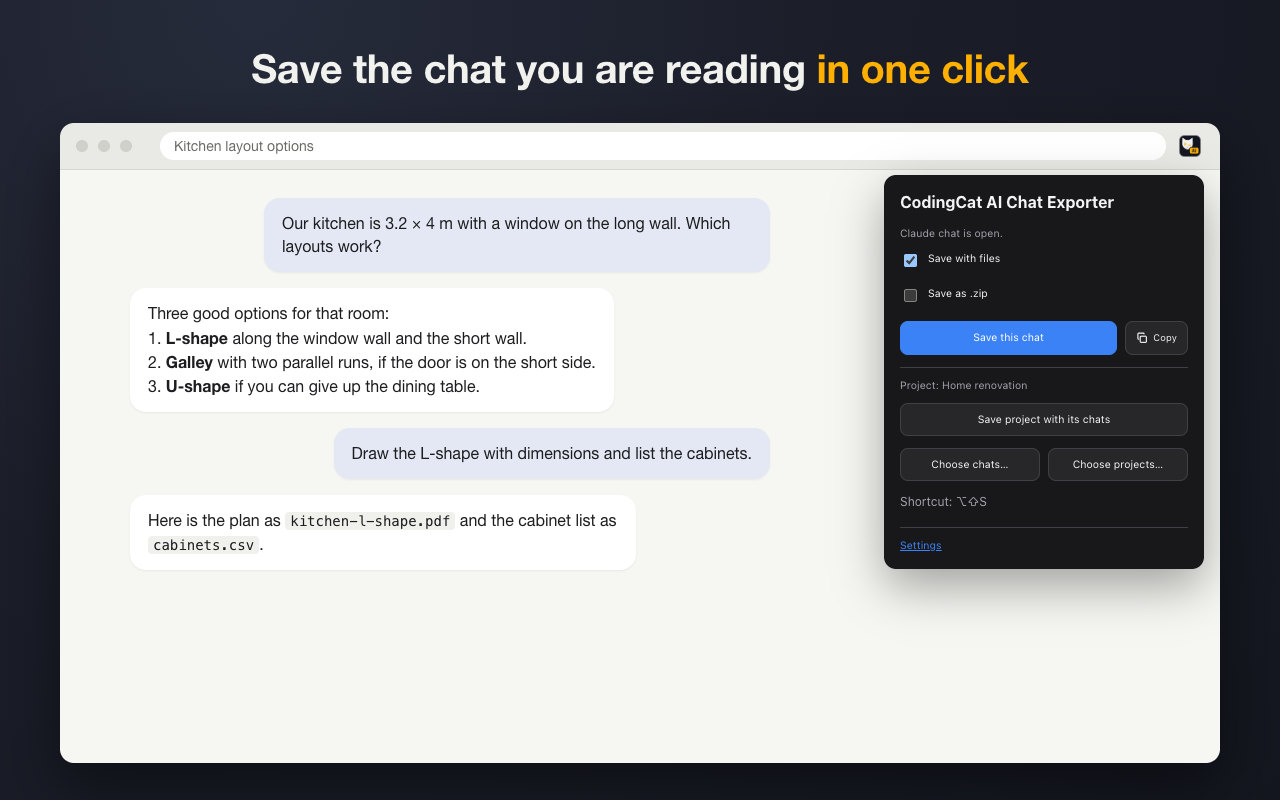
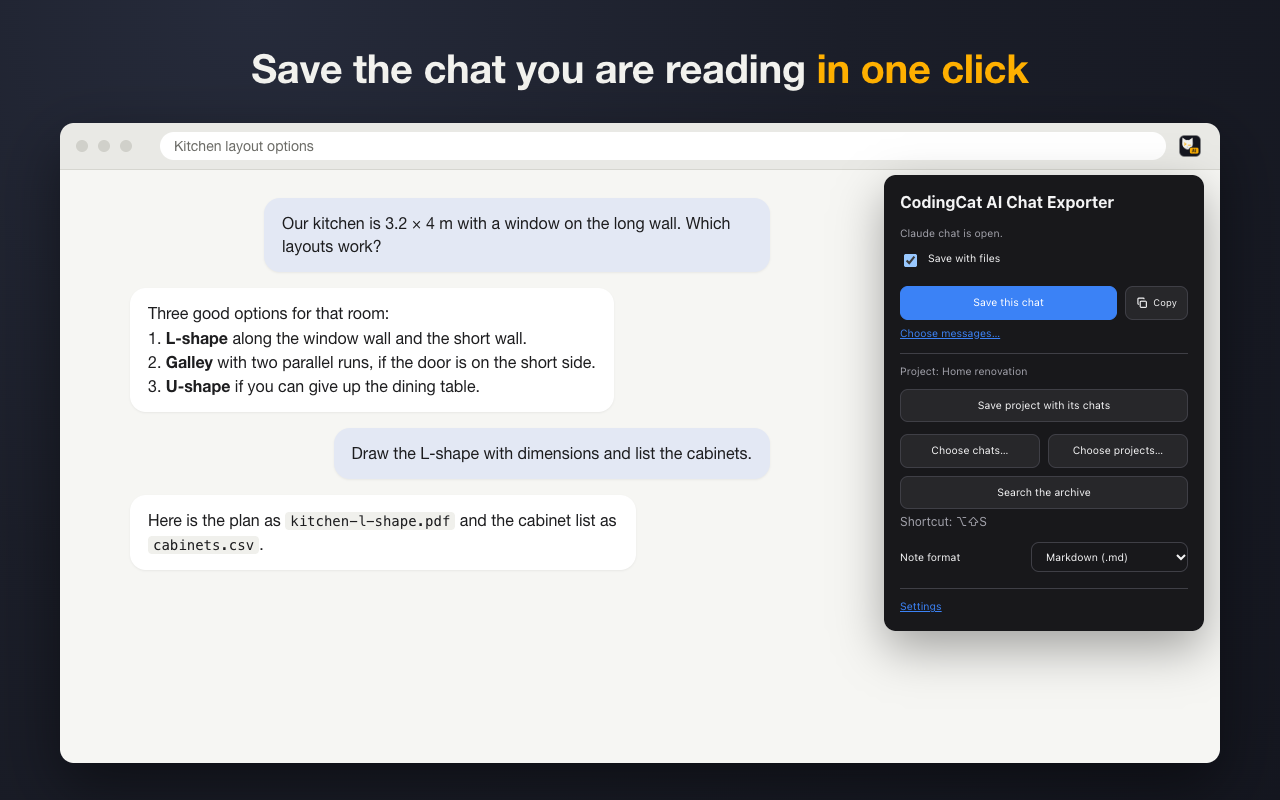
chore: new store screenshots for 0.5 (#52)
* fix: the search viewer marks hits legibly and scrolls only itself

The marks in the viewer kept the note's light text on a light yellow, hard
to read in a dark theme; they have dark text now. Opening a hit scrolled
the whole search page with scrollIntoView, so the query box went out of
view; the viewer now scrolls only its own document.

* chore: new store screenshots for 0.5

Five screenshots instead of four, made by scripts/store-images.mjs from the
real extension on a stand with made-up chats: the popup, the export page
showing only the chats not saved yet with the new filters, the archive
search, the bulk export's progress, and a saved note. The made-up chats
now have their own questions and replies and dates, so the search finds
something; the export goes into a folder, which the search then reads.

---------

Changed region(s): [[0.6875, 0.3438, 0.9688, 0.8438]]

diff --git a/store/README.md b/store/README.md
@@ -8,20 +8,20 @@ Upload `ai-chat-exporter-<version>.zip` from the [release](https://github.com/ni
 
 ## Store listing tab
 
-| Field                  | Value                                                                                                                                       |
-| ---------------------- | ------------------------------------------------------------------------------------------------------------------------------------------- |
-| Name                   | From the package: "CodingCat AI Chat Exporter" (both languages)                                                                             |
-| Summary                | From the package: `extDescription` in `scripts/locales.py` (English, Russian) and `LISTING` there for the other languages                   |
-| Description            | `description.<language>.txt`: en, ru, de, es, fr, pt_BR, ja, zh_CN                                                                          |
-| Category               | Productivity › Tools (a category is chosen inside a group; Workflow & Planning would be the second choice)                                  |
-| Language               | English first; then add Russian, German, Spanish, French, Portuguese (Brazil), Japanese and Chinese (Simplified), each with its description |
-| Store icon             | `store-icon-128.png`: the package's `icons/icon-128.png`, 96×96 artwork in 16 px of padding with a faint glow                               |
-| Screenshots (1280×800) | `screenshot-1-popup.png`, `screenshot-2-choose.png`, `screenshot-3-progress.png`, `screenshot-4-note.png`, in this order                    |
-| Small promo tile       | `promo-small-440x280.png` (required)                                                                                                        |
-| Marquee promo tile     | `promo-marquee-1400x560.png` (optional: shown only if the store features the extension)                                                     |
-| Homepage URL           | https://github.com/nikolaylosev/ai-chat-exporter                                                                                            |
-| Support URL            | https://github.com/nikolaylosev/ai-chat-exporter/issues                                                                                     |
-| Mature content         | No                                                                                                                                          |
+| Field                  | Value                                                                                                                                                                            |
+| ---------------------- | -------------------------------------------------------------------------------------------------------------------------------------------------------------------------------- |
+| Name                   | From the package: "CodingCat AI Chat Exporter" (both languages)                                                                                                                  |
+| Summary                | From the package: `extDescription` in `scripts/locales.py` (English, Russian) and `LISTING` there for the other languages                                                        |
+| Description            | `description.<language>.txt`: en, ru, de, es, fr, pt_BR, ja, zh_CN                                                                                                               |
+| Category               | Productivity › Tools (a category is chosen inside a group; Workflow & Planning would be the second choice)                                                                       |
+| Language               | English first; then add Russian, German, Spanish, French, Portuguese (Brazil), Japanese and Chinese (Simplified), each with its description                                      |
+| Store icon             | `store-icon-128.png`: the package's `icons/icon-128.png`, 96×96 artwork in 16 px of padding with a faint glow                                                                    |
+| Screenshots (1280×800) | `screenshot-1-popup.png`, `screenshot-2-choose.png`, `screenshot-3-search.png`, `screenshot-4-progress.png`, `screenshot-5-note.png`, in this order (the store takes up to five) |
+| Small promo tile       | `promo-small-440x280.png` (required)                                                                                                                                             |
+| Marquee promo tile     | `promo-marquee-1400x560.png` (optional: shown only if the store features the extension)                                                                                          |
+| Homepage URL           | https://github.com/nikolaylosev/ai-chat-exporter                                                                                                                                 |
+| Support URL            | https://github.com/nikolaylosev/ai-chat-exporter/issues                                                                                                                          |
+| Mature content         | No                                                                                                                                                                               |
 
 The screenshots are in English; the same ones serve every language. The interface itself is in English and Russian; in the other languages Chrome shows it in English, and only the name and the summary are translated.
 
